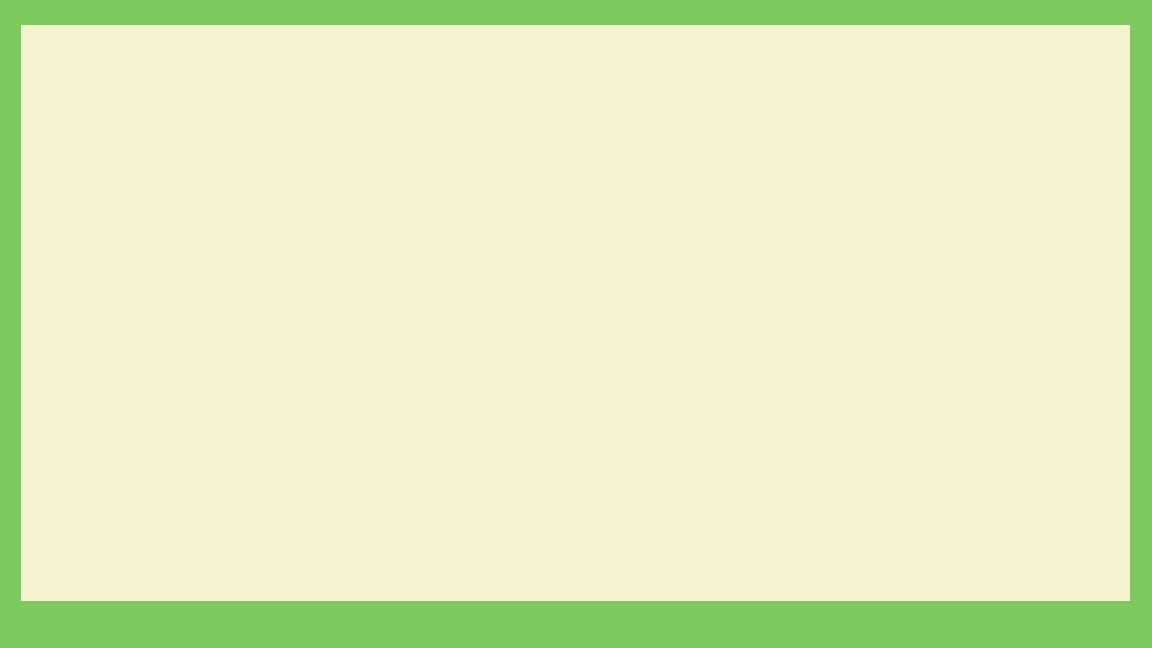
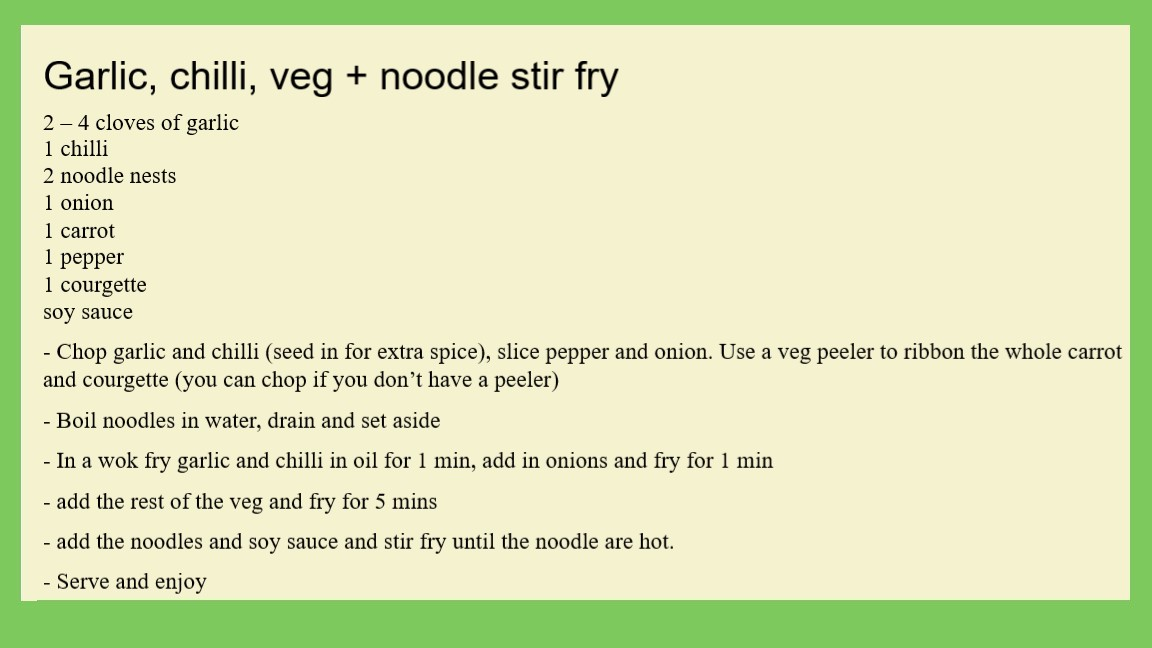
Added 2nd slide

Changed region(s): [[0.0312, 0.5247, 0.9688, 0.9259], [0.0312, 0.0926, 0.5312, 0.1543], [0.0312, 0.1852, 0.2188, 0.4938]]

diff --git a/recipes.html b/recipes.html
@@ -109,25 +109,17 @@
   </ol>
   <div class="carousel-inner">
     <div class="carousel-item active">
-      <img class="d-block w-100" src="..." alt="First slide">
+      <img class="d-block w-100 c" src="r1.jpg" alt="First slide">
     </div>
     <div class="carousel-item">
-      <img class="d-block w-100" src="..." alt="Second slide">
+      <img class="d-block w-100 c" src="..." alt="Second slide">
     </div>
     <div class="carousel-item">
-      <img class="d-block w-100" src="..." alt="Third slide">
+      <img class="d-block w-100 c" src="..." alt="Third slide">
     </div>
-  </div>
   <div class="carousel-item">
-    <img class="d-block w-100" src="..." alt="Third slide">
+    <img class="d-block w-100 c" src="..." alt="Fourth slide">
   </div>
-</div>
-<div class="carousel-item">
-  <img class="d-block w-100" src="..." alt="Third slide">
-</div>
-</div>
-<div class="carousel-item">
-  <img class="d-block w-100" src="..." alt="Third slide">
 </div>
 </div>
   <a class="carousel-control-prev" href="#carouselExampleIndicators" role="button" data-slide="prev">
